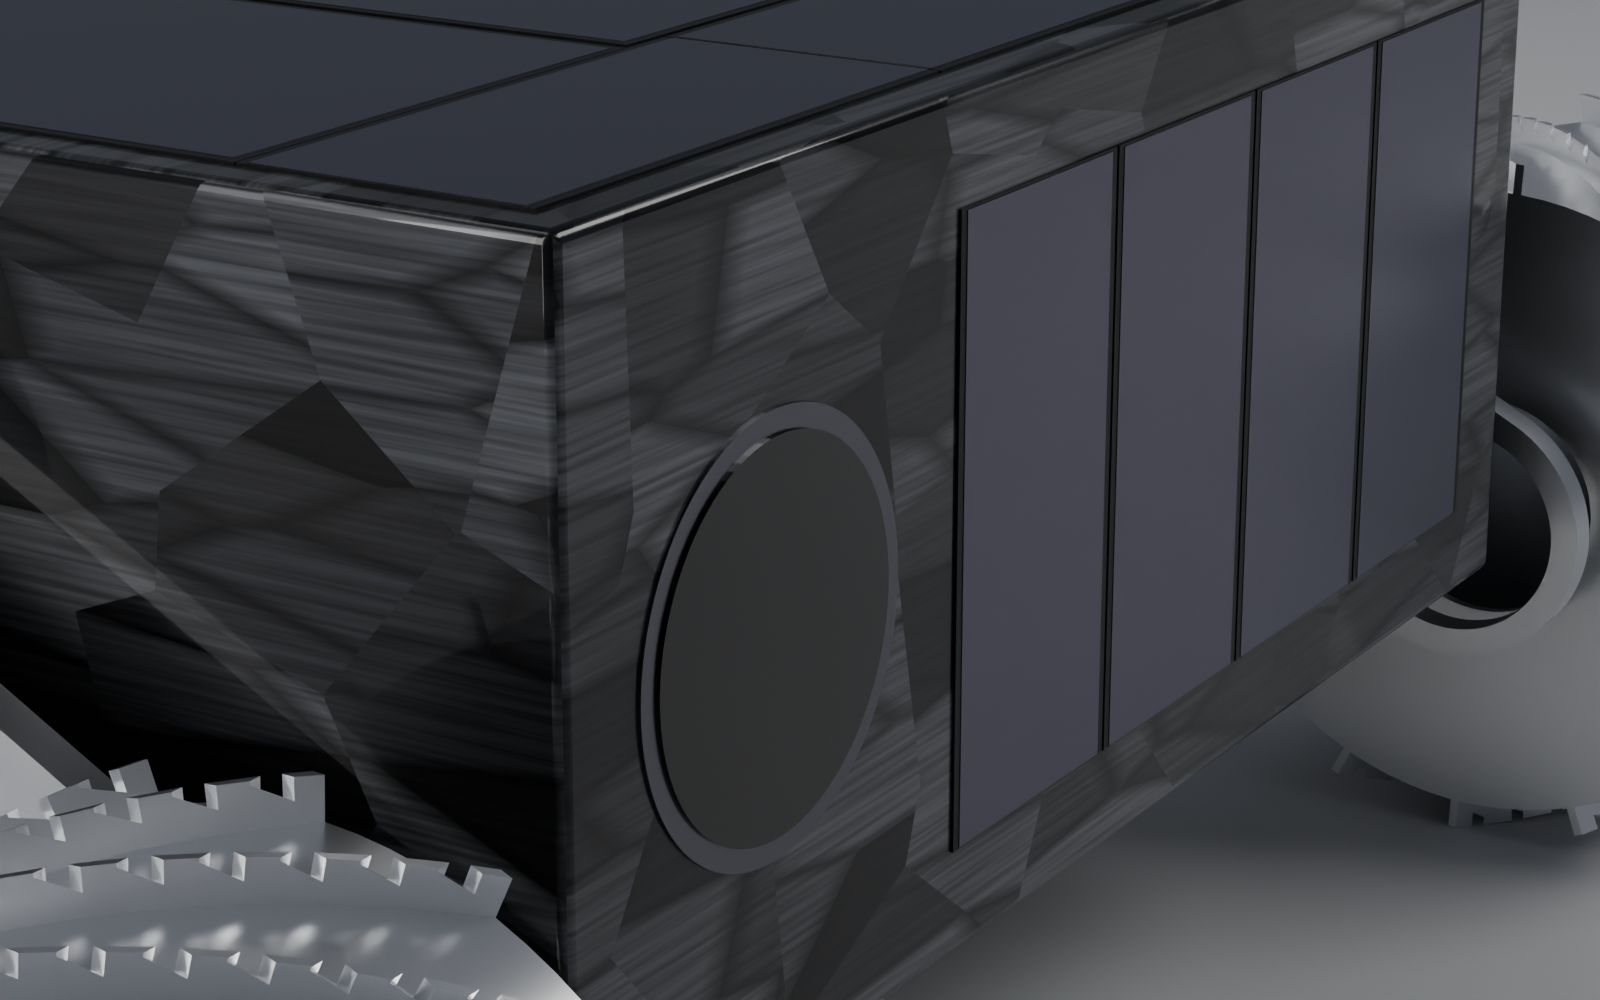
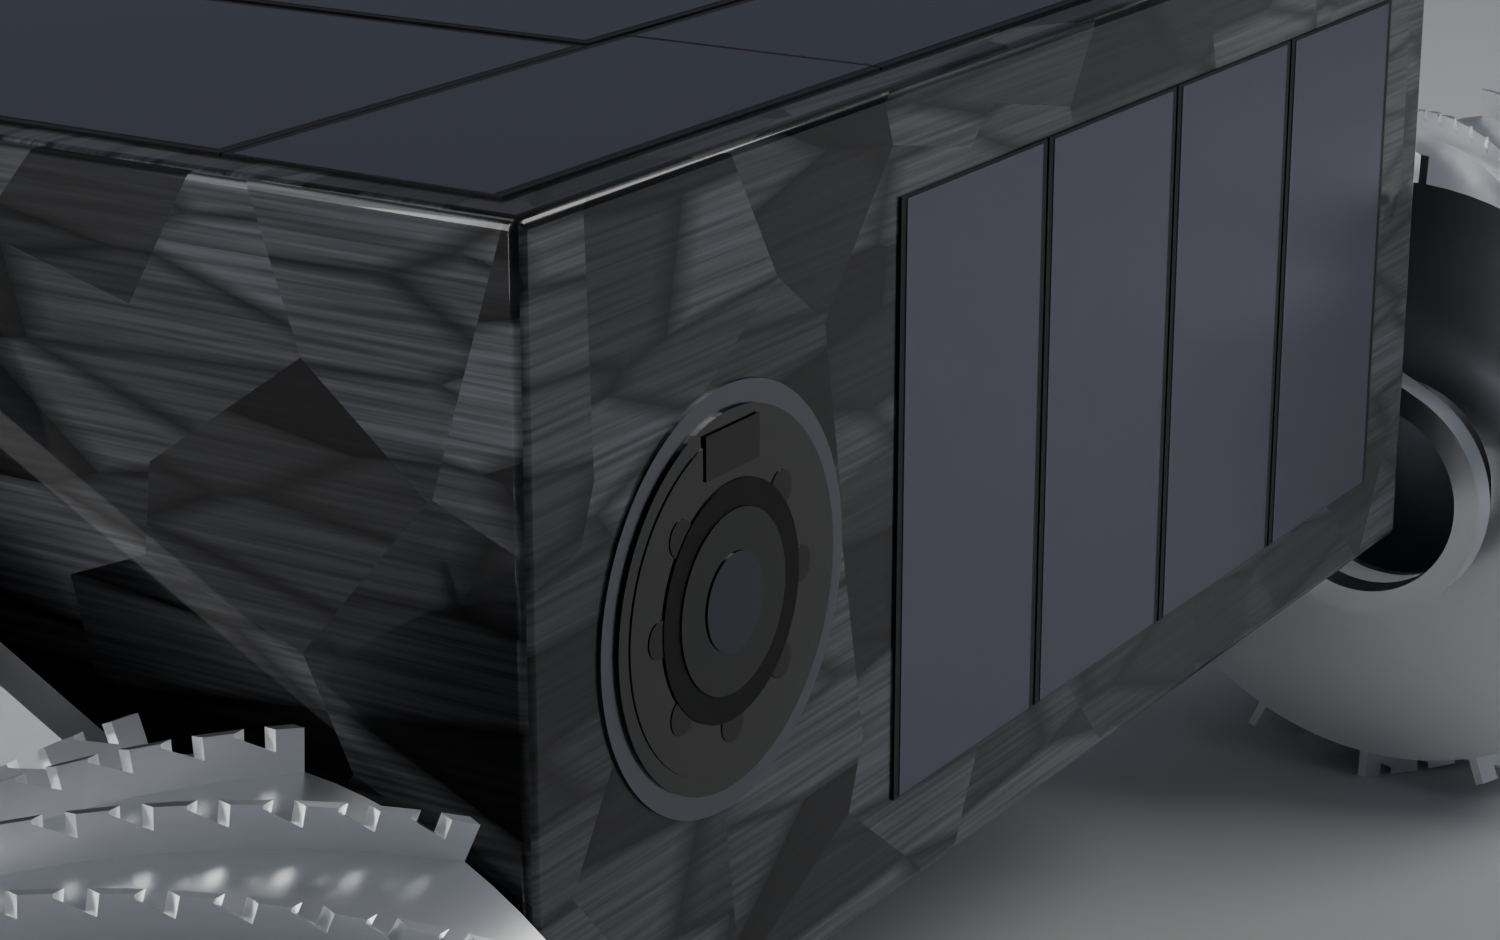
Blender renders: camera window with lens hood, lens, dead-front ring over seven LEDs and the ranging sensor under IR ink; new window view; detail and hero re-rendered

Changed region(s): [[0.4293, 0.5245, 0.5213, 0.7404], [0.46, 0.1543, 0.4907, 0.1851], [0.3987, 0.1851, 0.4293, 0.216]]

diff --git a/hardware/assembly/blender_render.py b/hardware/assembly/blender_render.py
@@ -2,7 +2,7 @@
 
 Run from the repository root, after hardware/assembly/blender_export.py:
     VIEW=hero ~/tools/blender-4.5.9-linux-x64/blender -b -P hardware/assembly/blender_render.py
-VIEW is one of hero, rear, top, detail (default hero); SAMPLES (default 96), RES (default 1600x1000) are optional.  Output: docs/images/rover-<view>.png.
+VIEW is one of hero, rear, top, detail, cells, window (default hero); SAMPLES (default 96), RES (default 1600x1000) are optional.  Output: docs/images/rover-<view>.png.
 1 Blender unit = 1 mm.  The body is a 140 x 140 x 60 mm block with 0.8 mm edges, NOT the real shell (hardware/body/block.py is only the cavity volume);
 the cells, panes and windows are laid on its faces from the same numbers as layout.py, cell_pocket.py and cell_endface.py.  Not modelled: lid screws and
 seals, hub studs and rings, the lamp, the beamsplitter, anything inside.  The forged-carbon pattern is procedural (chips of random orientation, each with
@@ -130,6 +130,13 @@ MAT = {
     "film": principled("laminate margin", (0.009, 0.010, 0.013), metallic=0.0, rough=0.42),     # photos show no pale border: the part is black edge to edge
     "glass": principled("camera pane", (0.0, 0.0, 0.0), metallic=0.0, rough=0.04, Coat_Weight=0.5, Coat_Roughness=0.02),
     "bezel": principled("bezel", (0.18, 0.18, 0.2), metallic=1.0, rough=0.28),
+    "hood": principled("lens hood and mask ring", (0.004, 0.004, 0.005), metallic=0.0, rough=0.55),
+    "lens": principled("M12 lens front", (0.0, 0.0, 0.0), metallic=0.0, rough=0.10, Coat_Weight=0.25, Coat_Roughness=0.12),
+    "iris": principled("lens inner element", (0.004, 0.006, 0.022), metallic=0.0, rough=0.12, Coat_Weight=0.3, Coat_Roughness=0.08),
+    "film": principled("laminate margin", (0.009, 0.010, 0.013), metallic=0.0, rough=0.42),
+    "smoked": principled("smoked dead-front film", (0.010, 0.0095, 0.008), metallic=0.0, rough=0.12, Coat_Weight=0.4, Coat_Roughness=0.05),
+    "led": principled("LED behind the film (off)", (0.0145, 0.0135, 0.0105), metallic=0.0, rough=0.14),
+    "irink": principled("infrared-passing ink over the ranging sensor", (0.006, 0.0025, 0.0025), metallic=0.0, rough=0.3, Coat_Weight=0.2, Coat_Roughness=0.12),
     "plug": principled("RF window plug", (0.025, 0.032, 0.03), metallic=0.0, rough=0.45),
     "strut": principled("strut", (0.88, 0.89, 0.91), metallic=1.0, rough=0.34, Anisotropic=0.5),    # bare machined 6061 (docs/strut-spec.md)
     "wheel": principled("wheel", (0.88, 0.89, 0.91), metallic=1.0, rough=0.30, Anisotropic=0.6),
@@ -216,6 +223,16 @@ cells()
 wx = 70 - (GAP + 13)
 cylinder_y("bezel", wx, 30, 14.6, 70.0, 70.0 + T, "bezel")
 cylinder_y("pane", wx, 30, 13.0, 70.0, 70.0 + T + 0.25, "glass")
+# behind the cover glass (drawn just in front of the pane, which is dark glass): the smoked dead-front annulus over the LED ring, 7 LEDs (off), the lens hood, the lens, the ranging sensor's IR ink
+y0 = 70.0 + T + 0.25
+cylinder_y("film ring", wx, 30, 11.8, y0, y0 + 0.08, "smoked")
+for k in range(1, 8):
+    ang = math.radians(90 + 45 * k)
+    cylinder_y(f"led{k}", wx + 8.5 * math.cos(ang), 30 + 8.5 * math.sin(ang), 1.3, y0 + 0.08, y0 + 0.14, "led", verts=24)
+cylinder_y("hood", wx, 30, 8.2, y0 + 0.08, y0 + 0.2, "hood")
+cylinder_y("lens", wx, 30, 6.3, y0 + 0.2, y0 + 0.3, "lens")
+cylinder_y("lens inner", wx, 30, 3.4, y0 + 0.3, y0 + 0.4, "iris")
+bm = bmesh.new(); add_box(bm, wx - 3.2, wx + 3.2, y0 + 0.08, y0 + 0.2, 40.5 - 1.5, 40.5 + 1.5); make("ranging sensor", bm, "irink")
 bm = bmesh.new(); add_box(bm, -wx - 13.5, -wx + 13.5, -70 - T, -70, 16.5, 43.5); make("RF plug", bm, "plug")
 import_stl("struts", "strut"); import_stl("wheels", "wheel")
 bm = bmesh.new(); add_box(bm, -3000, 3000, -3000, 3000, GROUND_Z - 1, GROUND_Z); make("ground", bm, "ground")
@@ -260,6 +277,8 @@ elif VIEW == "rear": camera(orbit(218, 20, 640), (0, 0, 8), 55)
 elif VIEW == "top": camera((0, 0, 1400), (0, 0, 0), 55, ortho=330); scene.camera.rotation_euler = (0, 0, 0)         # image up = +y, the camera end
 elif VIEW == "detail":
     tgt = (45, 70, 38); loc = orbit(32, 18, 230, tgt); camera(loc, tgt, 85, dof=(loc - Vector(tgt)).length)
+elif VIEW == "window":
+    tgt = (wx, 70, 33); loc = orbit(90, 10, 150, tgt); camera(loc, tgt, 100, dof=(loc - Vector(tgt)).length)
 elif VIEW == "cells":
     tgt = (20, 30, 60); loc = orbit(24, 24, 190, tgt); camera(loc, tgt, 100, dof=(loc - Vector(tgt)).length)
 else: raise SystemExit(f"unknown VIEW {VIEW}")

diff --git a/docs/blender-render.md b/docs/blender-render.md
@@ -40,3 +40,7 @@ Both photographs are small and lit by studio lights, so their colour is only rou
 - **No gridlines, busbars or cell seams** are drawn, which matches the photographs; the nine-cell layout inside each part is still not visible anywhere (`docs/positioning.md` section 10b).
 - **Not modelled:** the back (gold pads and silkscreen; the cells sit in the lids and the back is never seen), the silver strip of the KXOB25 photo, the layer line on the side edge, and the SM401K08TF and SM531K08TFS (no photographs were looked at; they get the same material and a 0.75 mm margin, an assumption).
 - **To improve it further:** a larger, sharper photograph of a part in raking light would show the true gloss and any texture.
+
+## Update 2026-11-14: the camera window with the LED ring and the ranging sensor
+
+The camera end now shows the design of `docs/hardware-spec.md` section 5: a 26 mm cover glass (dark, glossy), behind it a black lens hood and mask ring, the M12 lens front (a black disc with a dark-blue inner element), a smoked dead-front annulus over seven LEDs (the LEDs are barely lighter than the film, so they vanish when off) and, in the ring's top slot, the ranging sensor under infrared-passing ink (very dark, slightly red). These are drawn as thin discs in front of the dark pane, not as real transmission through glass: the look is right, the physics is not. New view: `VIEW=window` (a close-up of the window from +y). The lens shows a broad grey reflection of the softbox: a real lens would show smaller highlights.
